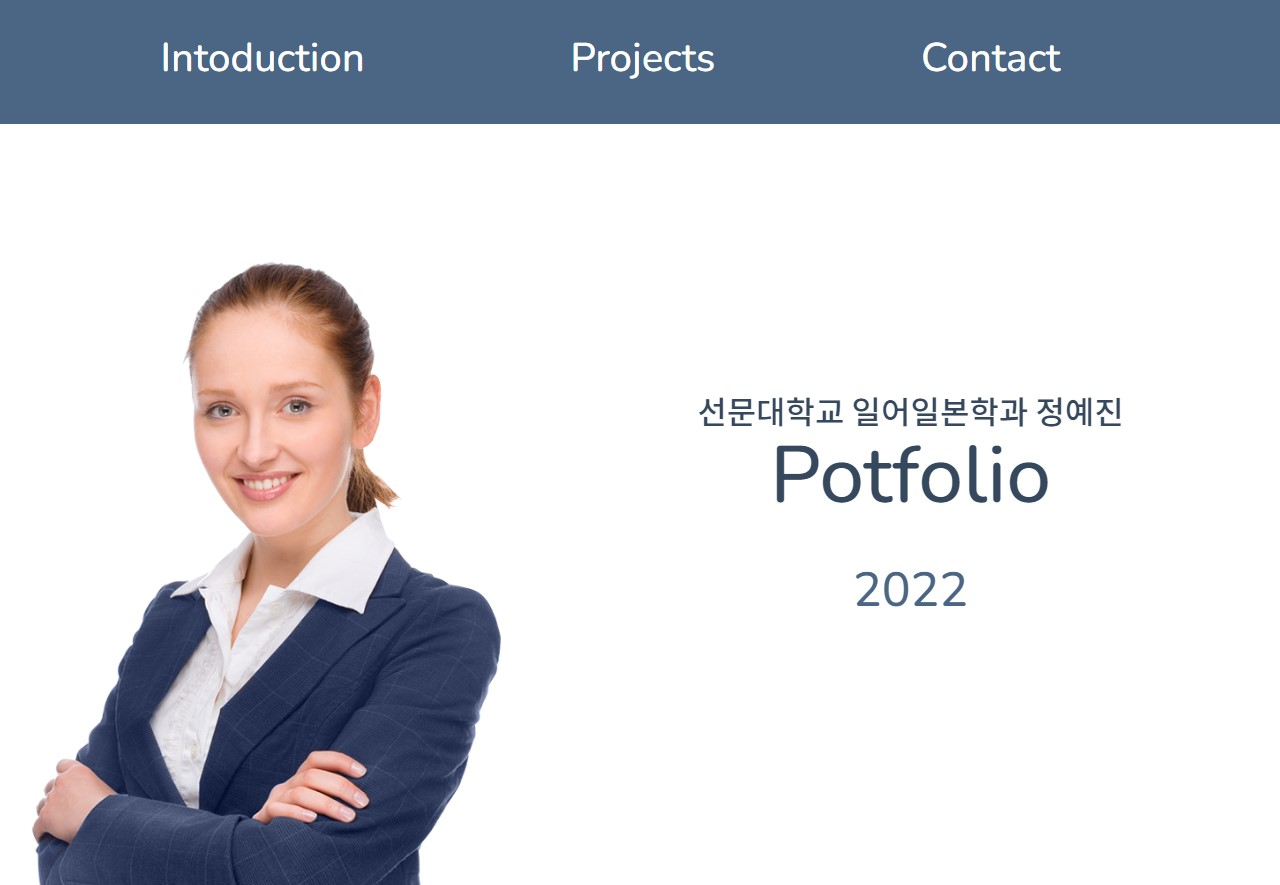
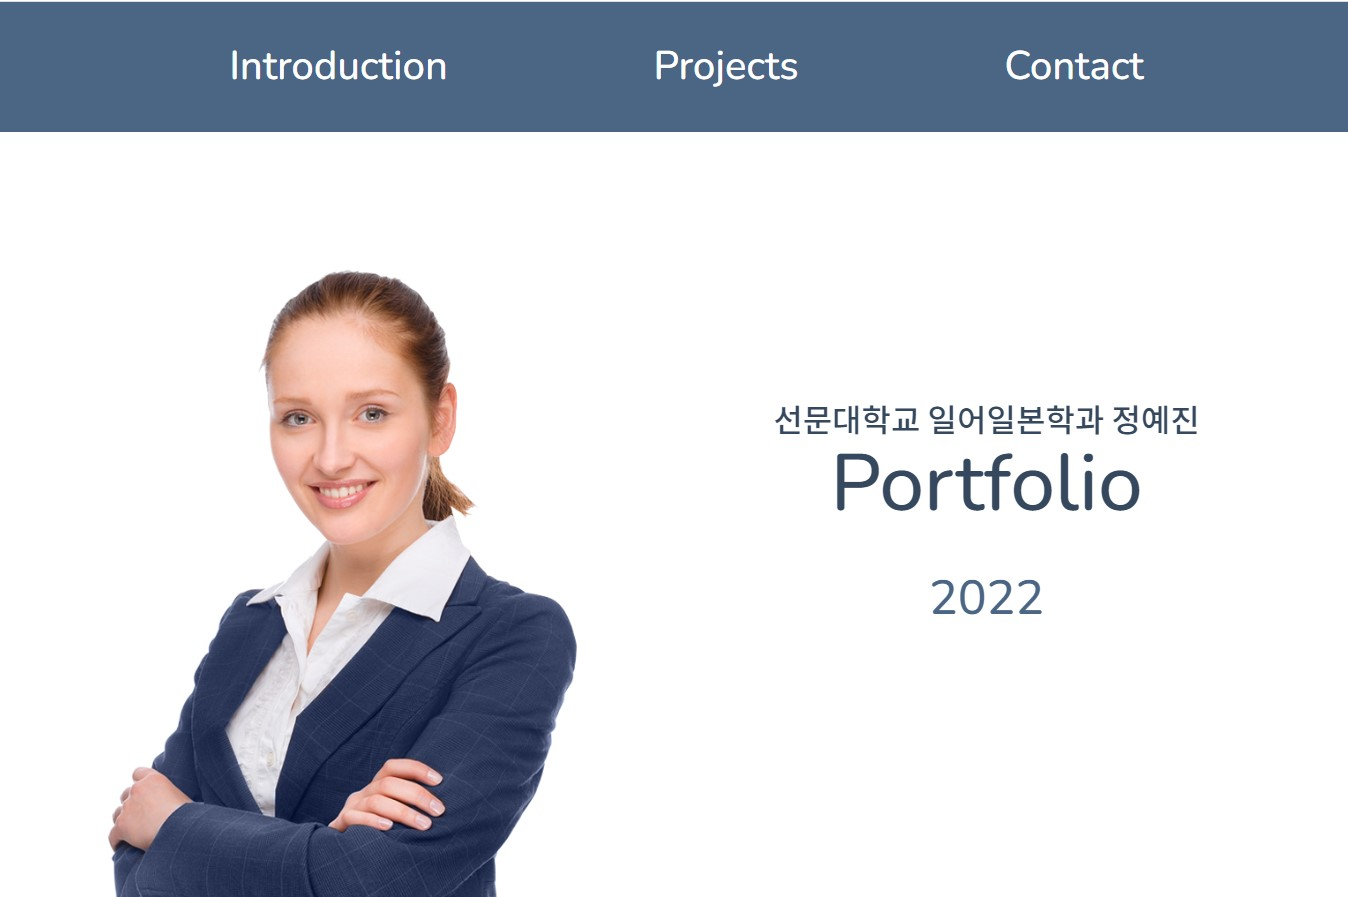
second commit

diff --git a/index.html b/index.html
@@ -27,7 +27,7 @@
                 <div class="top_img" data-aos="fade-right" data-aos-duration= "600"><img src="./img/top_img.png" alt="메인이미지"></div>
                 <div class="top_ment" data-aos="fade-left">
                     <p class="ment">선문대학교 일어일본학과 정예진</p>
-                    <p class="ment">Potfolio</p> 
+                    <p class="ment">Portfolio</p> 
                     <p class="ment">2022</p>   
                 </div>
             </div>

diff --git a/README.md b/README.md
@@ -1,7 +1,7 @@
-# :books:MyPotfolio
+# :books:MyPortfolio
 
 ### preview page
-https://jyejin99.github.io/potfolio/
+https://jyejin99.github.io/portfolio/
 
 ### 미리보기 이미지
 ![미리보기](./img/preview.jpg)
